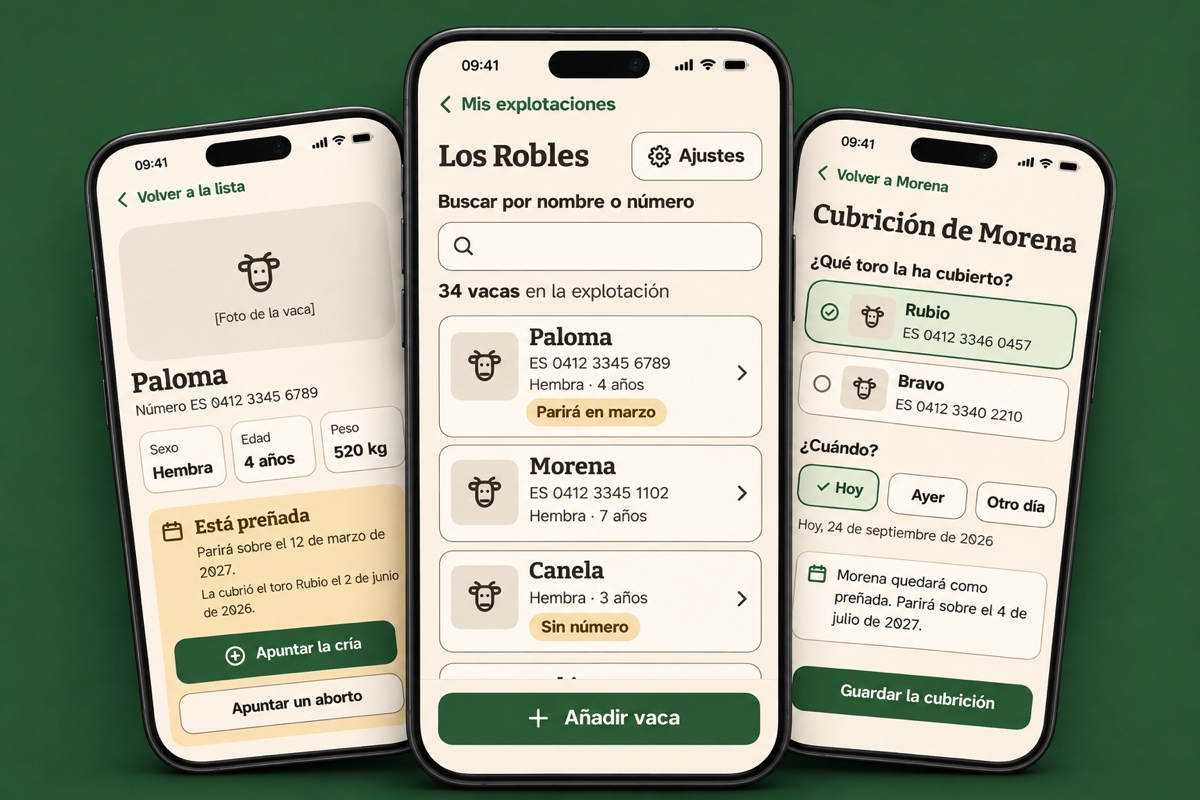
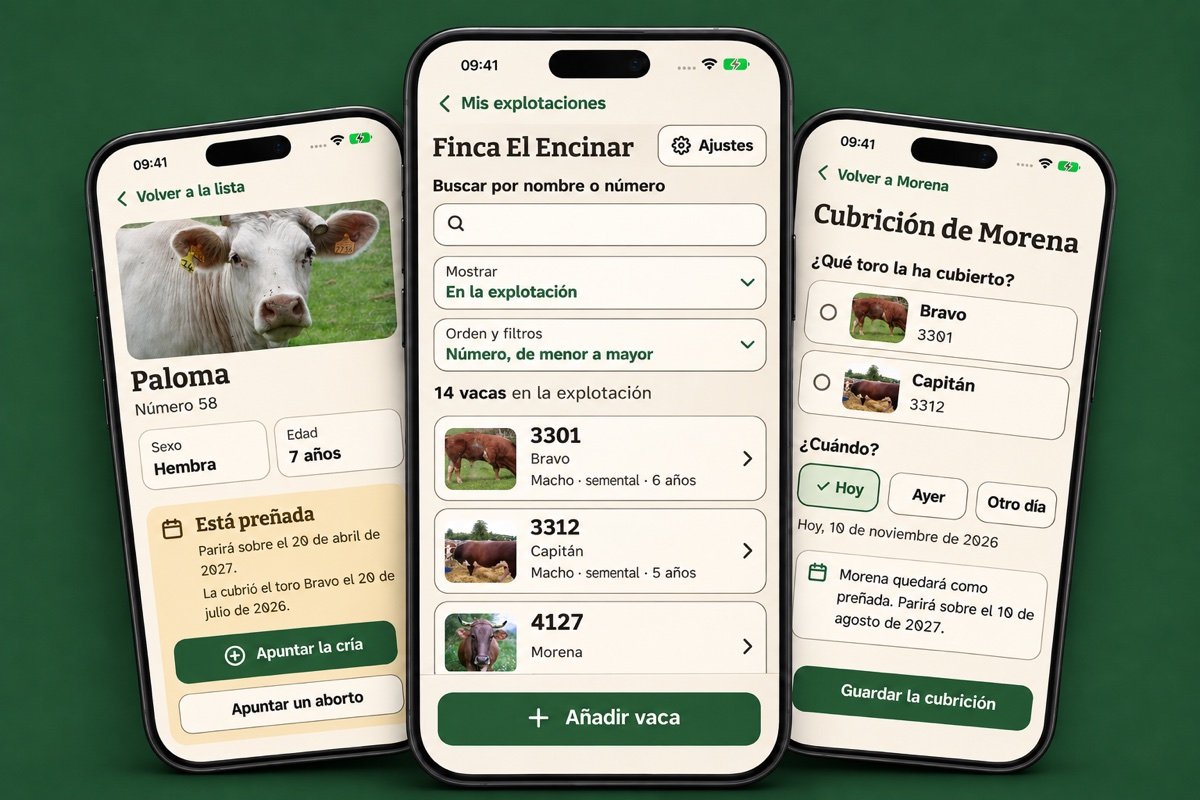
Use current Chotos screenshots across the website

diff --git a/public/chotos/index.html b/public/chotos/index.html
@@ -16,17 +16,17 @@
   <meta property="og:title" content="Chotos · Las vacas de tu explotación, siempre a mano">
   <meta property="og:description" content="Una app sencilla para llevar las vacas, las cubriciones y las crías. Ya está en el App Store; en Android, en pruebas.">
   <meta property="og:url" content="https://juliaaguero.com/chotos/">
-  <meta property="og:image" content="https://juliaaguero.com/chotos/images/chotos-compartir-v1.jpg">
-  <meta property="og:image:secure_url" content="https://juliaaguero.com/chotos/images/chotos-compartir-v1.jpg">
+  <meta property="og:image" content="https://juliaaguero.com/chotos/images/chotos-compartir-v2.jpg">
+  <meta property="og:image:secure_url" content="https://juliaaguero.com/chotos/images/chotos-compartir-v2.jpg">
   <meta property="og:image:type" content="image/jpeg">
   <meta property="og:image:width" content="1200">
   <meta property="og:image:height" content="630">
-  <meta property="og:image:alt" content="Chotos: Tus vacas. Sus historias. Siempre a mano. Vista del diseño de la lista de vacas en un móvil e invitación a participar en las primeras pruebas.">
+  <meta property="og:image:alt" content="Chotos: Tus vacas. Sus historias. Siempre a mano. La lista de animales de Finca El Encinar en un móvil, con sus fotos.">
   <meta name="twitter:card" content="summary_large_image">
   <meta name="twitter:title" content="Chotos · Tus vacas, siempre a mano">
   <meta name="twitter:description" content="La app para llevar tu explotación. Ya en el App Store; en Android, en pruebas.">
-  <meta name="twitter:image" content="https://juliaaguero.com/chotos/images/chotos-compartir-x-v1.jpg">
-  <meta name="twitter:image:alt" content="Chotos: Tus vacas. Sus historias. Siempre a mano. Diseño de la lista de vacas en un móvil.">
+  <meta name="twitter:image" content="https://juliaaguero.com/chotos/images/chotos-compartir-v2.jpg">
+  <meta name="twitter:image:alt" content="Chotos: Tus vacas. Sus historias. Siempre a mano. La lista de animales de Finca El Encinar en un móvil, con sus fotos.">
   <link rel="preload" href="/chotos/fonts/AtkinsonHyperlegible-Regular.ttf" as="font" type="font/ttf" crossorigin>
   <link rel="stylesheet" href="/chotos/landing.css">
 </head>
@@ -47,7 +47,7 @@
     </div>
     <figure class="hero-visual">
       <div class="field-mark" aria-hidden="true"><span>HECHO PARA</span><strong>gente<br>de campo</strong><span>CON LAS COSAS CLARAS</span></div>
-      <div class="phone"><img src="/chotos/images/lista.png" width="780" height="1688" alt="Vista de diseño: lista de vacas de Los Robles, con búsqueda por nombre o crotal y una indicación de parto para Paloma." fetchpriority="high"></div>
+      <div class="phone"><img src="/chotos/images/lista-v2.png" width="1000" height="2172" alt="Lista de animales de Finca El Encinar, con sus fotos, búsqueda por nombre o número y opciones de orden y filtros." fetchpriority="high"></div>
       <div class="margin-note" aria-hidden="true">Cada vaca,<br>en su sitio.<span>↖</span></div>
       <figcaption>Un vistazo a Chotos.<br>Datos de ejemplo.</figcaption>
     </figure>
@@ -59,11 +59,11 @@
     <p>No hace falta acordarse de cada fecha ni buscar cada dato en un papel. Guarda lo que pasa en la explotación y consúltalo cuando lo necesites.</p>
   </section>
   <section class="feature wrap" aria-labelledby="ficha-titulo">
-    <figure class="preview-panel"><div class="phone"><img src="/chotos/images/ficha.png" width="780" height="1688" alt="Diseño de la ficha de Paloma, con sus datos y una fecha estimada de parto." loading="lazy"></div><figcaption>Vista del diseño · Datos de ejemplo</figcaption></figure>
+    <figure class="preview-panel"><div class="phone"><img src="/chotos/images/ficha-v2.png" width="1000" height="2172" alt="Ficha de Paloma, con su foto, sus datos y una fecha estimada de parto para el 20 de abril de 2027." loading="lazy"></div><figcaption>Captura de la app · Datos de ejemplo</figcaption></figure>
     <div class="feature-copy"><p class="step-label">01 / CADA VACA, CON SU FICHA</p><h2 id="ficha-titulo">¿Y esta vaca,<br>de quién era hija?</h2><p>Búscala por su nombre o su crotal. En su ficha tienes su foto, sus datos, sus padres y sus crías.</p><p>También puedes consultar las cubriciones y las notas que hayas apuntado. Toda su historia, junta.</p><a class="text-link" href="#descargar">Descargar Chotos <span aria-hidden="true">→</span></a></div>
   </section>
   <section class="feature reverse wrap" aria-labelledby="parto-titulo">
-    <figure class="preview-panel ochre"><div class="phone"><img src="/chotos/images/cubricion.png" width="780" height="1688" alt="Diseño para apuntar una cubrición, elegir el toro y consultar la fecha estimada de parto." loading="lazy"></div><figcaption>Vista del diseño · Datos de ejemplo</figcaption></figure>
+    <figure class="preview-panel ochre"><div class="phone"><img src="/chotos/images/cubricion-v2.png" width="1000" height="2172" alt="Pantalla para apuntar la cubrición de Morena, elegir entre los toros Bravo y Capitán y consultar la fecha estimada de parto." loading="lazy"></div><figcaption>Captura de la app · Datos de ejemplo</figcaption></figure>
     <div class="feature-copy"><p class="step-label">02 / CUBRICIONES Y CRÍAS</p><h2 id="parto-titulo">¿Cuándo le<br>toca parir?</h2><p>Apunta qué toro la cubrió y cuándo. Chotos calcula una fecha aproximada de parto para que puedas consultarla.</p><p>Cuando nazca la cría, añádela desde la ficha de su madre. Así queda la familia bien apuntada.</p><p class="note">La fecha de parto es una estimación.</p></div>
   </section>
   <section class="sharing"><div class="wrap sharing-inner"><div><p class="eyebrow">03 / LA EXPLOTACIÓN, COMPARTIDA</p><h2>Si la lleváis entre varios,<br>la información también.</h2></div><div><p>Invita a tu familia o a las personas que trabajan contigo mediante un enlace o un código.</p><p>Cada persona entra con su cuenta y con el acceso que le corresponda. Así podéis consultar y apuntar lo que pasa en la misma explotación.</p><p class="sharing-extra">También puedes registrar compras, ventas y bajas, conservando la ficha de cada animal.</p></div></div></section>

diff --git a/README.md b/README.md
@@ -236,7 +236,7 @@ policy continues to be served by the app at `/flatto/privacy-policy`.
 
 `/chotos/` is a standalone Spanish landing page for cattle farmers. Its semantic copy is in
 `public/chotos/index.html`, its responsive styles in `public/chotos/landing.css`, and its local
-fonts and labelled app design previews in the adjacent folders. It works without JavaScript.
+fonts and real app screenshots with demo data in the adjacent folders. It works without JavaScript.
 The main invitation opens an email to `chotos@juliaaguero.com`; visitors must send it to request
 participation in testing. There is no signup database. The existing `/chotos/privacidad` route
 continues to serve the app privacy policy. Vite copies the landing page unchanged to `dist/chotos/`.
